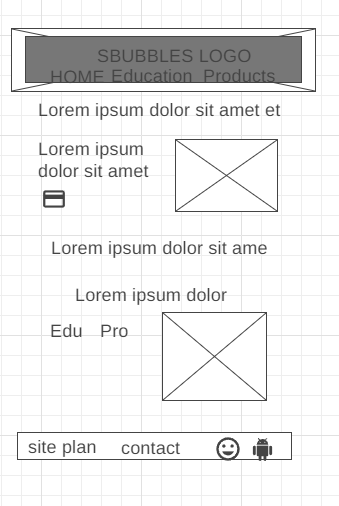
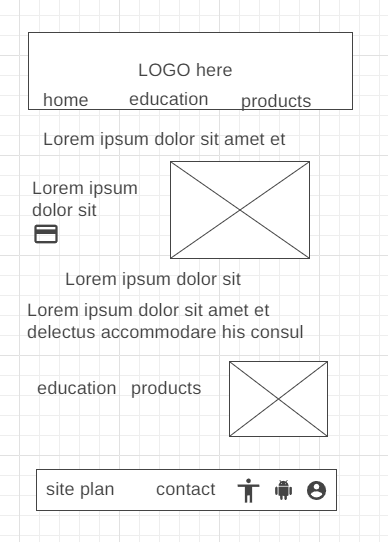
web final

diff --git a/spa/education.html b/spa/education.html
@@ -30,42 +30,32 @@
                 Education is so important. Let me tell you a few things about skincare...
             </h1>
 
+            <img class="mid-left space" src="images/education/eduone.jpg" alt="eduone">
 
-
-            <img src="images/education/eduone.jpg" alt="eduone">
-
-            <img src="images/education/edutwo.jpg" alt="edutwo">
-
-
-            <div class="full-width">
-                <p>People that came into my office almost universally had the same 2 questions
-                    How much will this cost me and how long will it take. Unfortunately those are not ever questions
-                    even the most experienced professionals can answer. Your skin is alive and it will react
-                    differently
-                    than other people's. The standard for someone who is rigorous with their routine can expect good
-                    results and a change in weeks, but hitting the goal of healthy skin can be a journey
-                    that
-                    takes months.
-                </p>
-            </div>
-
-
-
-            <img src="images/education/eduthree.jpg" alt="eduthree">
-
+            <p class="space">My goal is to bring transparency to the beauty industry.
+                After years of independent research as well as expensive
+                classes I have learned a lot.
+            </p>
 
             <div>
                 <h2>
                     Check back weekly for more tips and tricks! In the mean time check out products by clicking on
                     link
                 </h2>
+                <button class="page" onclick="location.href='product.html'" type="button">
+                    Products</button>
             </div>
-            <div>
-                <nav>
-                    <a href="product.html" class="product">
-                        Products </a>
-                </nav>
-            </div>
+            <!--
+            <img src="images/education/edutwo.jpg" alt="edutwo">
+            -->
+            <img src="images/education/eduthree.jpg" alt="eduthree">
+
+            <h2>
+                Having the correct product is just as important as knowing how to use it
+            </h2>
+
+
+
         </div>
     </main>
 

diff --git a/spa/site-plan.html b/spa/site-plan.html
@@ -211,7 +211,7 @@
             goal of healthy skin can be a journey. </p>
         <p>Images for the Education Page </p>
         <img src="images/education/eduone.jpg" width="75" alt="image for page">
-        <img src="images/education/edutwo.jpg" width="75" alt="image for page">
+
         <img src="images/education/eduthree.jpg" width="75" alt="image for page">
         <h3>products</h3>
         <p>
@@ -232,23 +232,20 @@
 
         <h3>Home</h3>
         <p>
-            The banner will have the logo at the top and buttons on the bottom left to the other pages. Footer will have
+            The banner will have the logo at the top and buttons on the bottom to the other pages. Footer will have
             social media and contact us
         </p>
         <img src="images/wire/home.png" alt="wire for home">
 
         <h3>Education</h3>
         <p>
-            I think this one is pretty clear, pictures and text
+            pictures and text and a link to th product page
         </p>
         <img src="images/wire/wirep2.png" alt="wire for page2">
 
         <h3>Products</h3>
         <p>
-            There will be a list of products and descriptions for the list. Also the banner at the bottom won't be used
-            at the time because it will be for before and after pictures, but the lessons said to include things you
-            will want in the future and that does seem like something that would be added later.
-        </p>
+            pictures and text with a link to the education page</p>
         <img src="images/wire/wirep3.png" alt="wire for page3">
     </main>
 </body>

diff --git a/spa/styles/products.css b/spa/styles/products.css
@@ -44,6 +44,7 @@ h2 {
     font-family: 'Merriweather', serif;
     font-size: 30px;
     text-align: left;
+    padding: 1em;
 }
 
 h3 {
@@ -81,7 +82,7 @@ body {
 footer {
     background-color: #ffffff;
     padding: 25px 50px;
-    margin-top: 200px;
+    margin-top: 100px;
     display: flex;
     justify-content: space-around;
     align-items: center;
@@ -116,7 +117,7 @@ button {
     text-align: center;
 }
 
-/*================social nav links pictures====================================*/
+/*================social nav links pictures===========================*/
 
 
 nav a {
@@ -140,19 +141,38 @@ nav a:hover {
     background: transparent;
 }
 
-.education {
-    text-decoration: none;
-    background-color: red;
-    padding: 20px;
-    border: 5px dashed green;
-}
-
 img {
     width: 100%;
     height: auto;
 }
 
 
+/*================education============================*/
+
+.page {
+    text-decoration: none;
+    background-color: #4A0475;
+    color: white;
+    padding: 20px;
+    font-size: 32px;
+    font-weight: 700;
+    font-family: 'Courgette', cursive;
+    border: 5px dashed #150578;
+}
+
+.space {
+    padding-left: 2em;
+    padding-bottom: 5em;
+}
+
+.above {
+    padding-top: 10%;
+}
+
+h4 a {
+    text-decoration: none;
+
+}
 
 /*================SPECIAL====================================*/
 .full-width {
@@ -162,6 +182,10 @@ img {
 .mid-right {
     grid-column: 2/4;
 
+}
+
+.mid-left {
+    grid-column: 1/3;
 }
 
 /*

diff --git a/spa/product.html b/spa/product.html
@@ -43,17 +43,14 @@
 
 
             <div>
-                <p>
-                    Want to learn more about education? Click on the link </p>
-            </div>
-            <div>
-
-                <a href="education.html" class="education">
-                    Education</a>
-
+                <h2 class="above">
+                    Want to learn more about education? Click on the link
+                </h2>
+                <button class="page" onclick="location.href='education.html'" type="button">
+                    Education</button>
             </div>
 
-            <img src="images/products/protwo.jpg" alt="protwo">
+            <img class="mid-right above" src="images/products/protwo.jpg" alt="protwo">
 
         </div>
     </main>

diff --git a/spa/contact.html b/spa/contact.html
@@ -23,14 +23,14 @@
                 Products </a>
         </nav>
     </header>
-    <h1>
+    <h4>
         Call or text: <a href="tel:+7022088076">7022088076</a><br><br>
-        <a href="mailto:sbubblesspa@gmail.com">Email: SbubblesSpa@gmail.com</a><br><br>
+        Email:<a href="mailto:sbubblesspa@gmail.com"> SbubblesSpa@gmail.com</a><br><br>
         For complaints please write or call the WDD department at BYUI:<br><br>
         525 S Center St, Rexburg, ID 83460<br><br>
         or call them at (208)496-1411, make sure to tell them class 130 sent you
 
-    </h1>
+    </h4>
 
     <footer>
 
